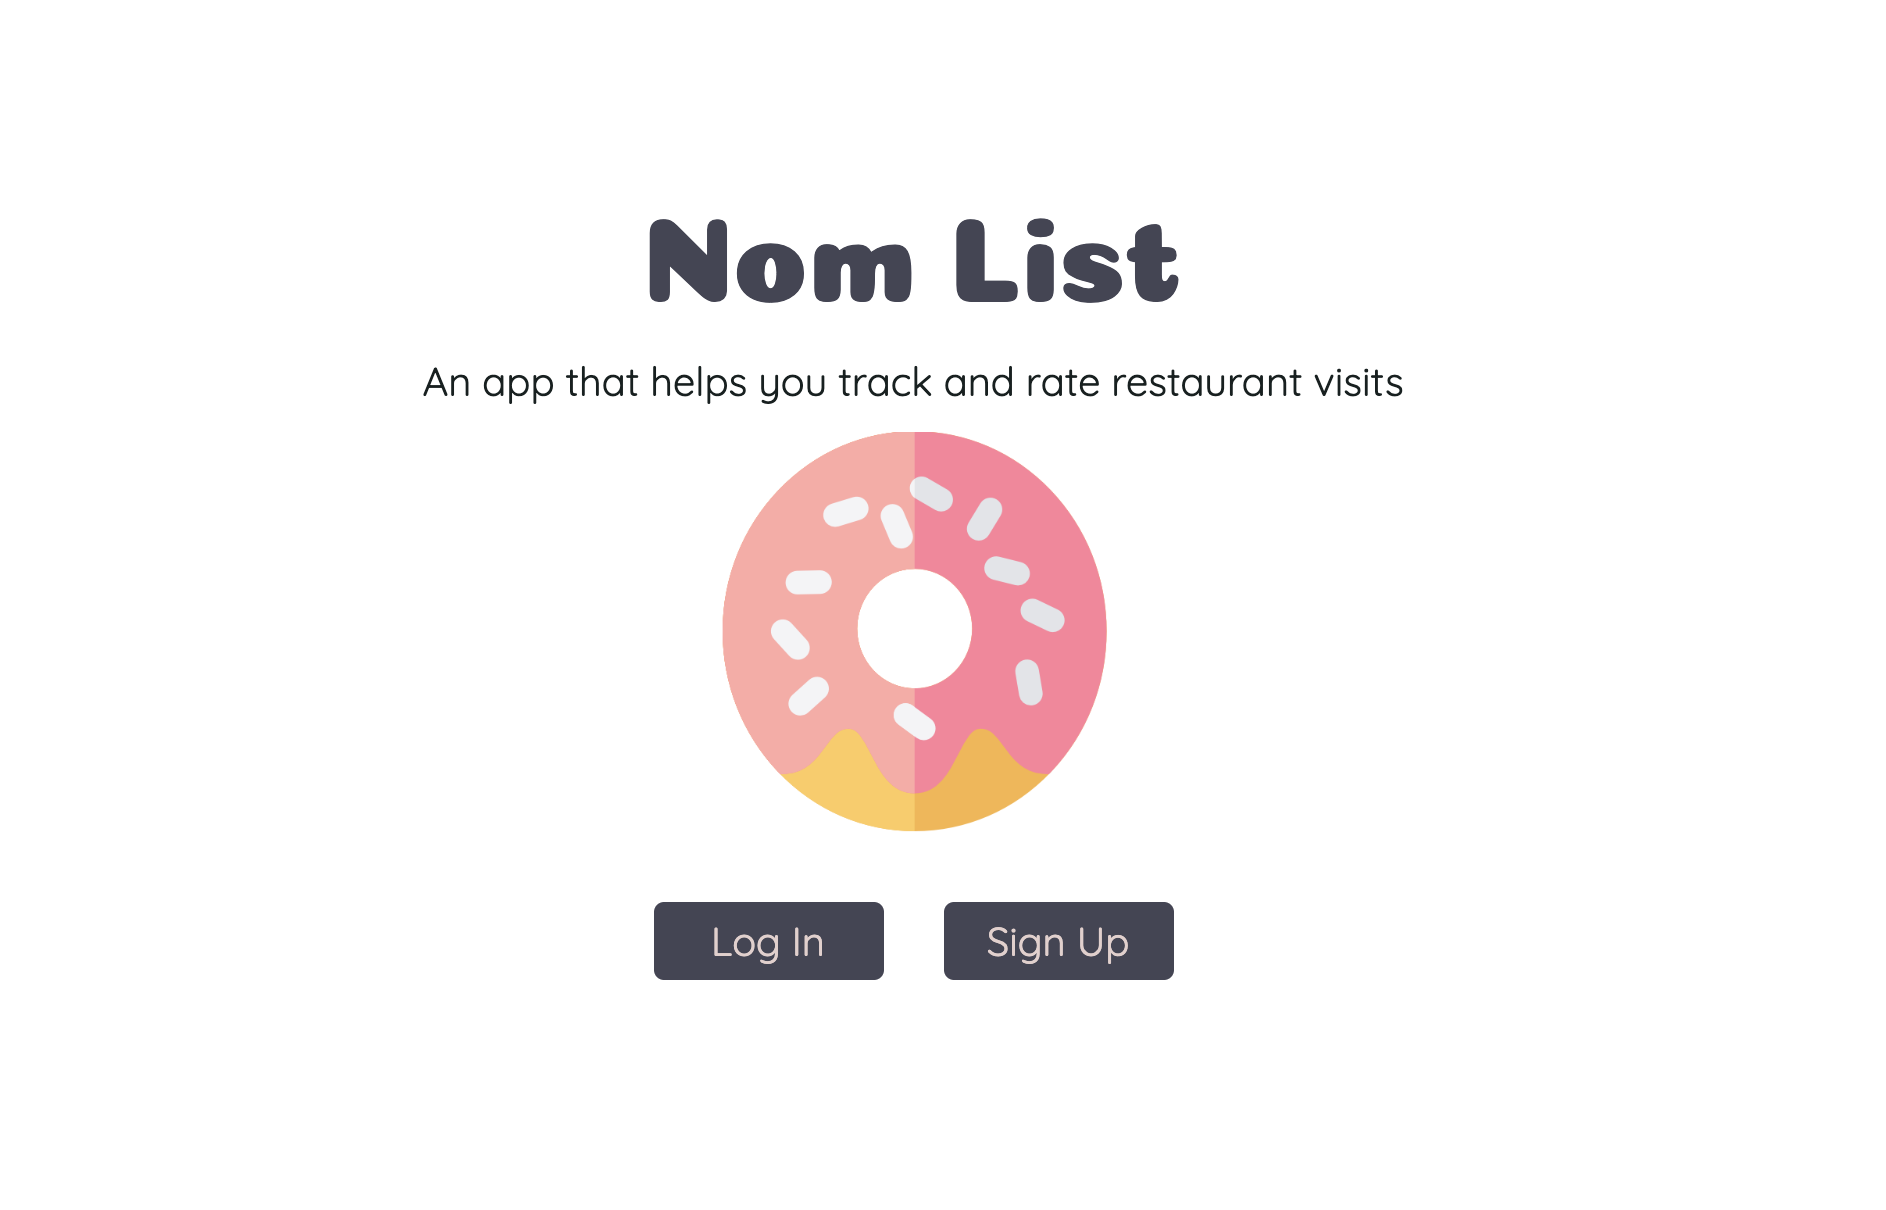
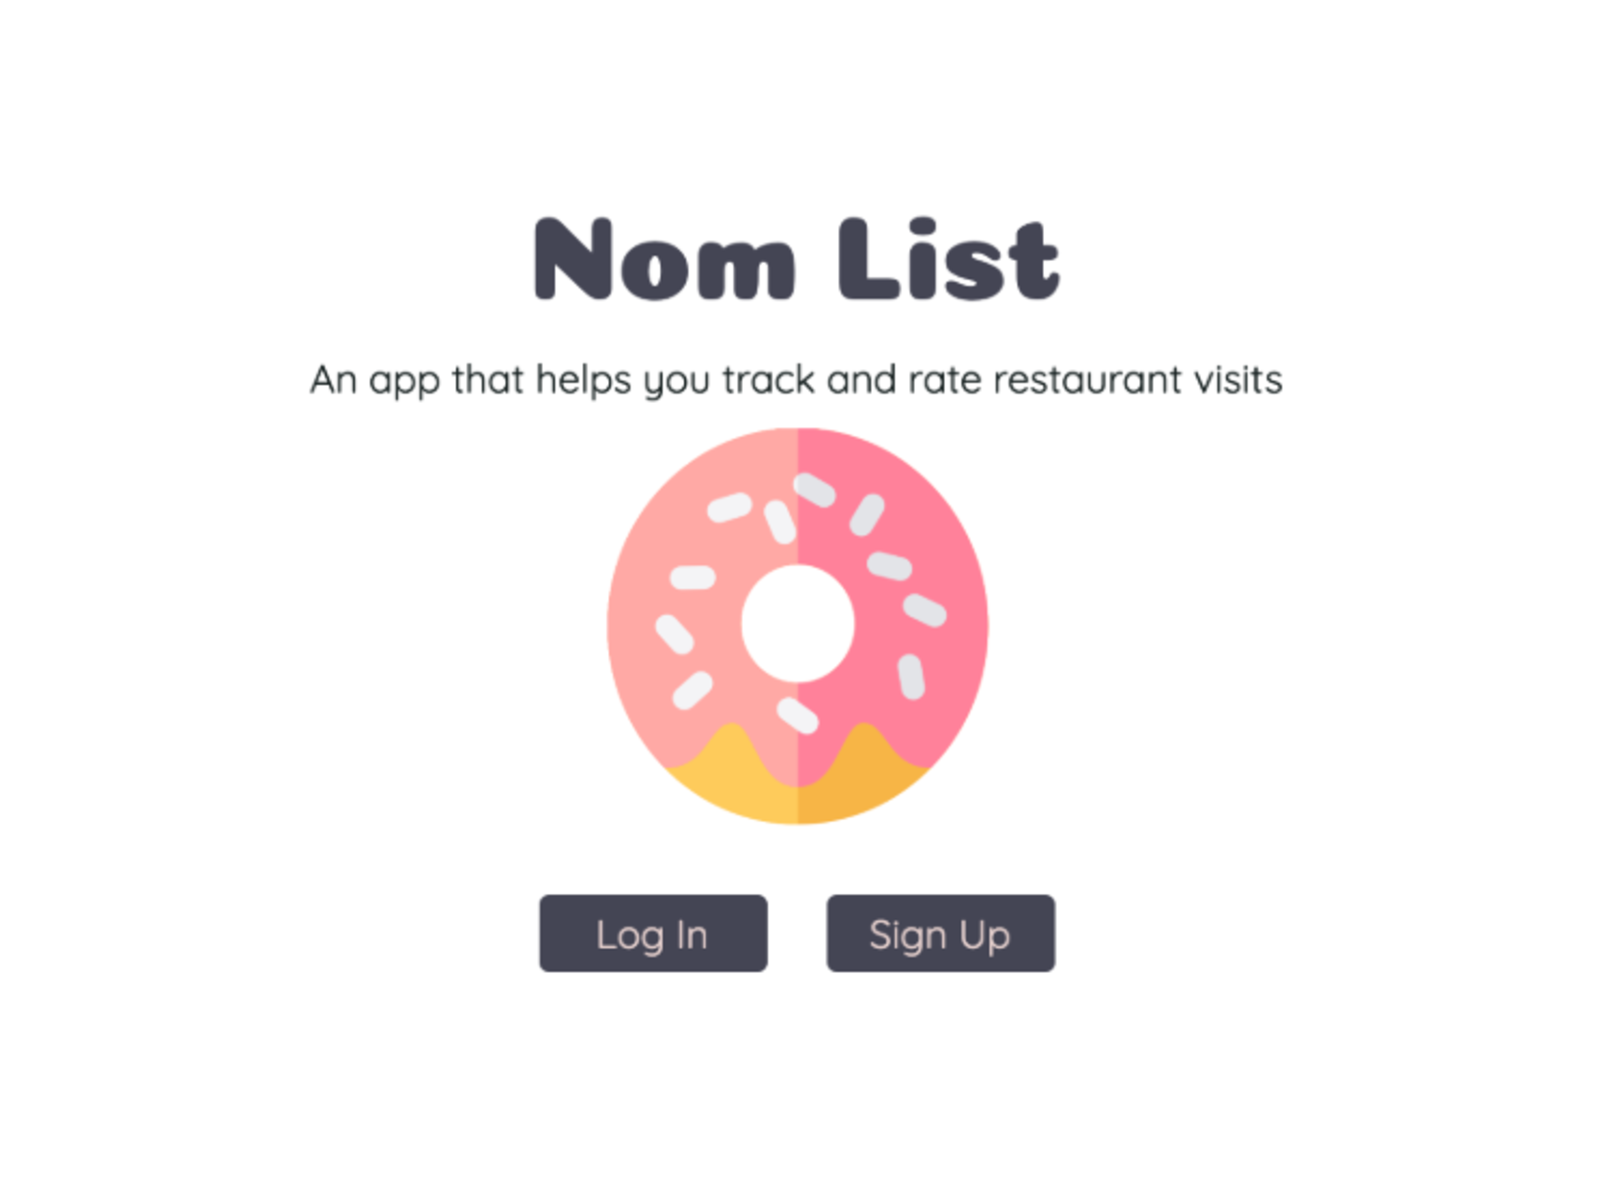
CSS tweaks

diff --git a/index.html b/index.html
@@ -81,128 +81,100 @@
           </svg>
         </div>
         <h2>Portfolio</h2>
-        <h3>Nom List</h3>
-        <img src="images/NL/signup_page copy.png" />
-        <p>
-          Nom List is an app that lets users search for restaurants in their
-          area, and create lists of restaurants they'd like to visit, have
-          already visited, or any other category they'd like to keep track of.
-        </p>
-        <h3>Nom List was built with:</h3>
-        <ul>
-          <li>React</li>
-          <li>Redux</li>
-          <li>JavaScript</li>
-          <li>Node</li>
-          <li>MongoDB</li>
-        </ul>
-        <div class="button-container">
-          <button
-            class="main-buttons"
-            href="https://restaurant-list-react.herokuapp.com/"
-          >
-            Live
-          </button>
-          <button
-            class="main-buttons"
-            href="https://github.com/melfers/restaurant-list-app-react-capstone"
-          >
-            GitHub
-          </button>
+        <div class="nom-list">
+          <h3>Nom List</h3>
+          <img src="images/NL/landing_page copy.png" />
+          <p>
+            Nom List is an app that lets users search for restaurants in their
+            area, and create lists of restaurants they'd like to visit, have
+            already visited, or any other category they'd like to keep track of.
+          </p>
+          <h5>Nom List was built with:</h5>
+          <ul>
+            <li>React</li>
+            <li>Redux</li>
+            <li>JavaScript</li>
+            <li>Node</li>
+            <li>MongoDB</li>
+          </ul>
+          <div class="button-container">
+            <button
+              class="main-buttons"
+              href="https://restaurant-list-react.herokuapp.com/"
+            >
+              Live
+            </button>
+            <button
+              class="main-buttons"
+              href="https://github.com/melfers/restaurant-list-app-react-capstone"
+            >
+              GitHub
+            </button>
+          </div>
         </div>
-      </section>
-      <section>
-        <div class="curve">
-          <svg
-            class="curve"
-            data-name="Layer 1"
-            xmlns="http://www.w3.org/2000/svg"
-            viewBox="0 0 1416.99 174.01"
-          >
-            <path
-              class="cls-1"
-              d="M0,280.8S283.66,59,608.94,163.56s437.93,150.57,808,10.34V309.54H0V280.8Z"
-              transform="translate(0 -135.53)"
-            />
-          </svg>
+        <div class="green-thumb">
+          <h3>
+            Green Thumb
+          </h3>
+          <img src="images/GT/all_plants_page.png" />
+          <p>
+            Green Thumb is an app that lets users log notes and watering dates
+            on their houseplants so that they can track when they need to water
+            the plant next.
+          </p>
+          <h5>Green Thumb was built with:</h5>
+          <ul>
+            <li>JavaScript</li>
+            <li>jQuery</li>
+            <li>HTML / CSS</li>
+            <li>Node</li>
+            <li>MongoDB</li>
+          </ul>
+          <div class="button-container">
+            <button
+              class="main-buttons"
+              href="https://node-capstone-plant-app.herokuapp.com/"
+            >
+              Live
+            </button>
+            <button
+              class="main-buttons"
+              href="https://github.com/melfers/node-capstone-plant-watering-app"
+            >
+              GitHub
+            </button>
+          </div>
         </div>
-        <h3 href="https://node-capstone-plant-app.herokuapp.com/">
-          Green Thumb
-        </h3>
-        <img src="images/GT/landing_page copy.png" />
-        <p>
-          Green Thumb is an app that lets users log notes and watering dates on
-          their houseplants so that they can track when they need to water the
-          plant next.
-        </p>
-        <h3>Green Thumb was built with:</h3>
-        <ul>
-          <li>JavaScript</li>
-          <li>jQuery</li>
-          <li>HTML / CSS</li>
-          <li>Node</li>
-          <li>MongoDB</li>
-        </ul>
-        <div class="button-container">
-          <button
-            class="main-buttons"
-            href="https://node-capstone-plant-app.herokuapp.com/"
-          >
-            Live
-          </button>
-          <button
-            class="main-buttons"
-            href="https://github.com/melfers/node-capstone-plant-watering-app"
-          >
-            GitHub
-          </button>
-        </div>
-      </section>
-      <section>
-        <div class="curve">
-          <svg
-            class="curve2"
-            data-name="Layer 1"
-            xmlns="http://www.w3.org/2000/svg"
-            viewBox="0 0 1416.99 174.01"
-          >
-            <path
-              class="cls-1"
-              d="M0,280.8S283.66,59,608.94,163.56s437.93,150.57,808,10.34V309.54H0V280.8Z"
-              transform="translate(0 -135.53)"
-            />
-          </svg>
-        </div>
-        <h3
-          href="https://melfers.github.io/recipe-search-with-in-season-produce-api-capstone/"
-        >
-          Season
-        </h3>
-        <img src="images/Season/landing-page.png" />
-        <p>
-          Season is an app that searches for recipes based on which produce is
-          in-season.
-        </p>
-        <h3>Season was built with:</h3>
-        <ul>
-          <li>JavaScript</li>
-          <li>jQuery</li>
-          <li>HTML</li>
-          <li>CSS</li>
-        </ul>
-        <div class="button-container">
-          <button
-            class="main-buttons"
-            href="https://melfers.github.io/recipe-search-with-in-season-produce-api-capstone/"
-          >
-            Live
-          </button>
-          <button
-            class="main-buttons"
-            href="https://github.com/melfers/recipe-search-with-in-season-produce-api-capstone"
-          >
-            GitHub
-          </button>
+        <div class="season">
+          <h3>
+            Season
+          </h3>
+          <img src="images/Season/landing-page.png" />
+          <p>
+            Season is an app that searches for recipes based on which produce is
+            in-season.
+          </p>
+          <h5>Season was built with:</h5>
+          <ul>
+            <li>JavaScript</li>
+            <li>jQuery</li>
+            <li>HTML</li>
+            <li>CSS</li>
+          </ul>
+          <div class="button-container">
+            <button
+              class="main-buttons"
+              href="https://melfers.github.io/recipe-search-with-in-season-produce-api-capstone/"
+            >
+              Live
+            </button>
+            <button
+              class="main-buttons"
+              href="https://github.com/melfers/recipe-search-with-in-season-produce-api-capstone"
+            >
+              GitHub
+            </button>
+          </div>
         </div>
       </section>
       <section class="contact">

diff --git a/styles.css b/styles.css
@@ -49,7 +49,9 @@ h3 {
   color: #bf6b95;
   font-family: "Vollkorn", serif;
   margin: 7px;
-  padding-left: 12px;
+  padding-left: 8px;
+  padding-top: 15px;
+  font-size: 28px;
 }
 
 h4 {
@@ -57,6 +59,13 @@ h4 {
   margin: 5px;
   font-family: "neato_serifregular", serif;
   font-size: 30px;
+}
+
+h5 {
+  font-size: 20px;
+  color: #444;
+  margin: 5px;
+  padding-left: 12px;
 }
 
 section {
@@ -98,7 +107,8 @@ p {
   width: 100%;
 }
 
-div.curve {
+div.curve,
+div.curve2 {
   font-size: 0;
 }
 
@@ -176,6 +186,7 @@ button.main-buttons {
     float: right;
     max-width: 40%;
     padding: 2%;
+    max-height: 400px;
   }
 
   img.contact-icons {
